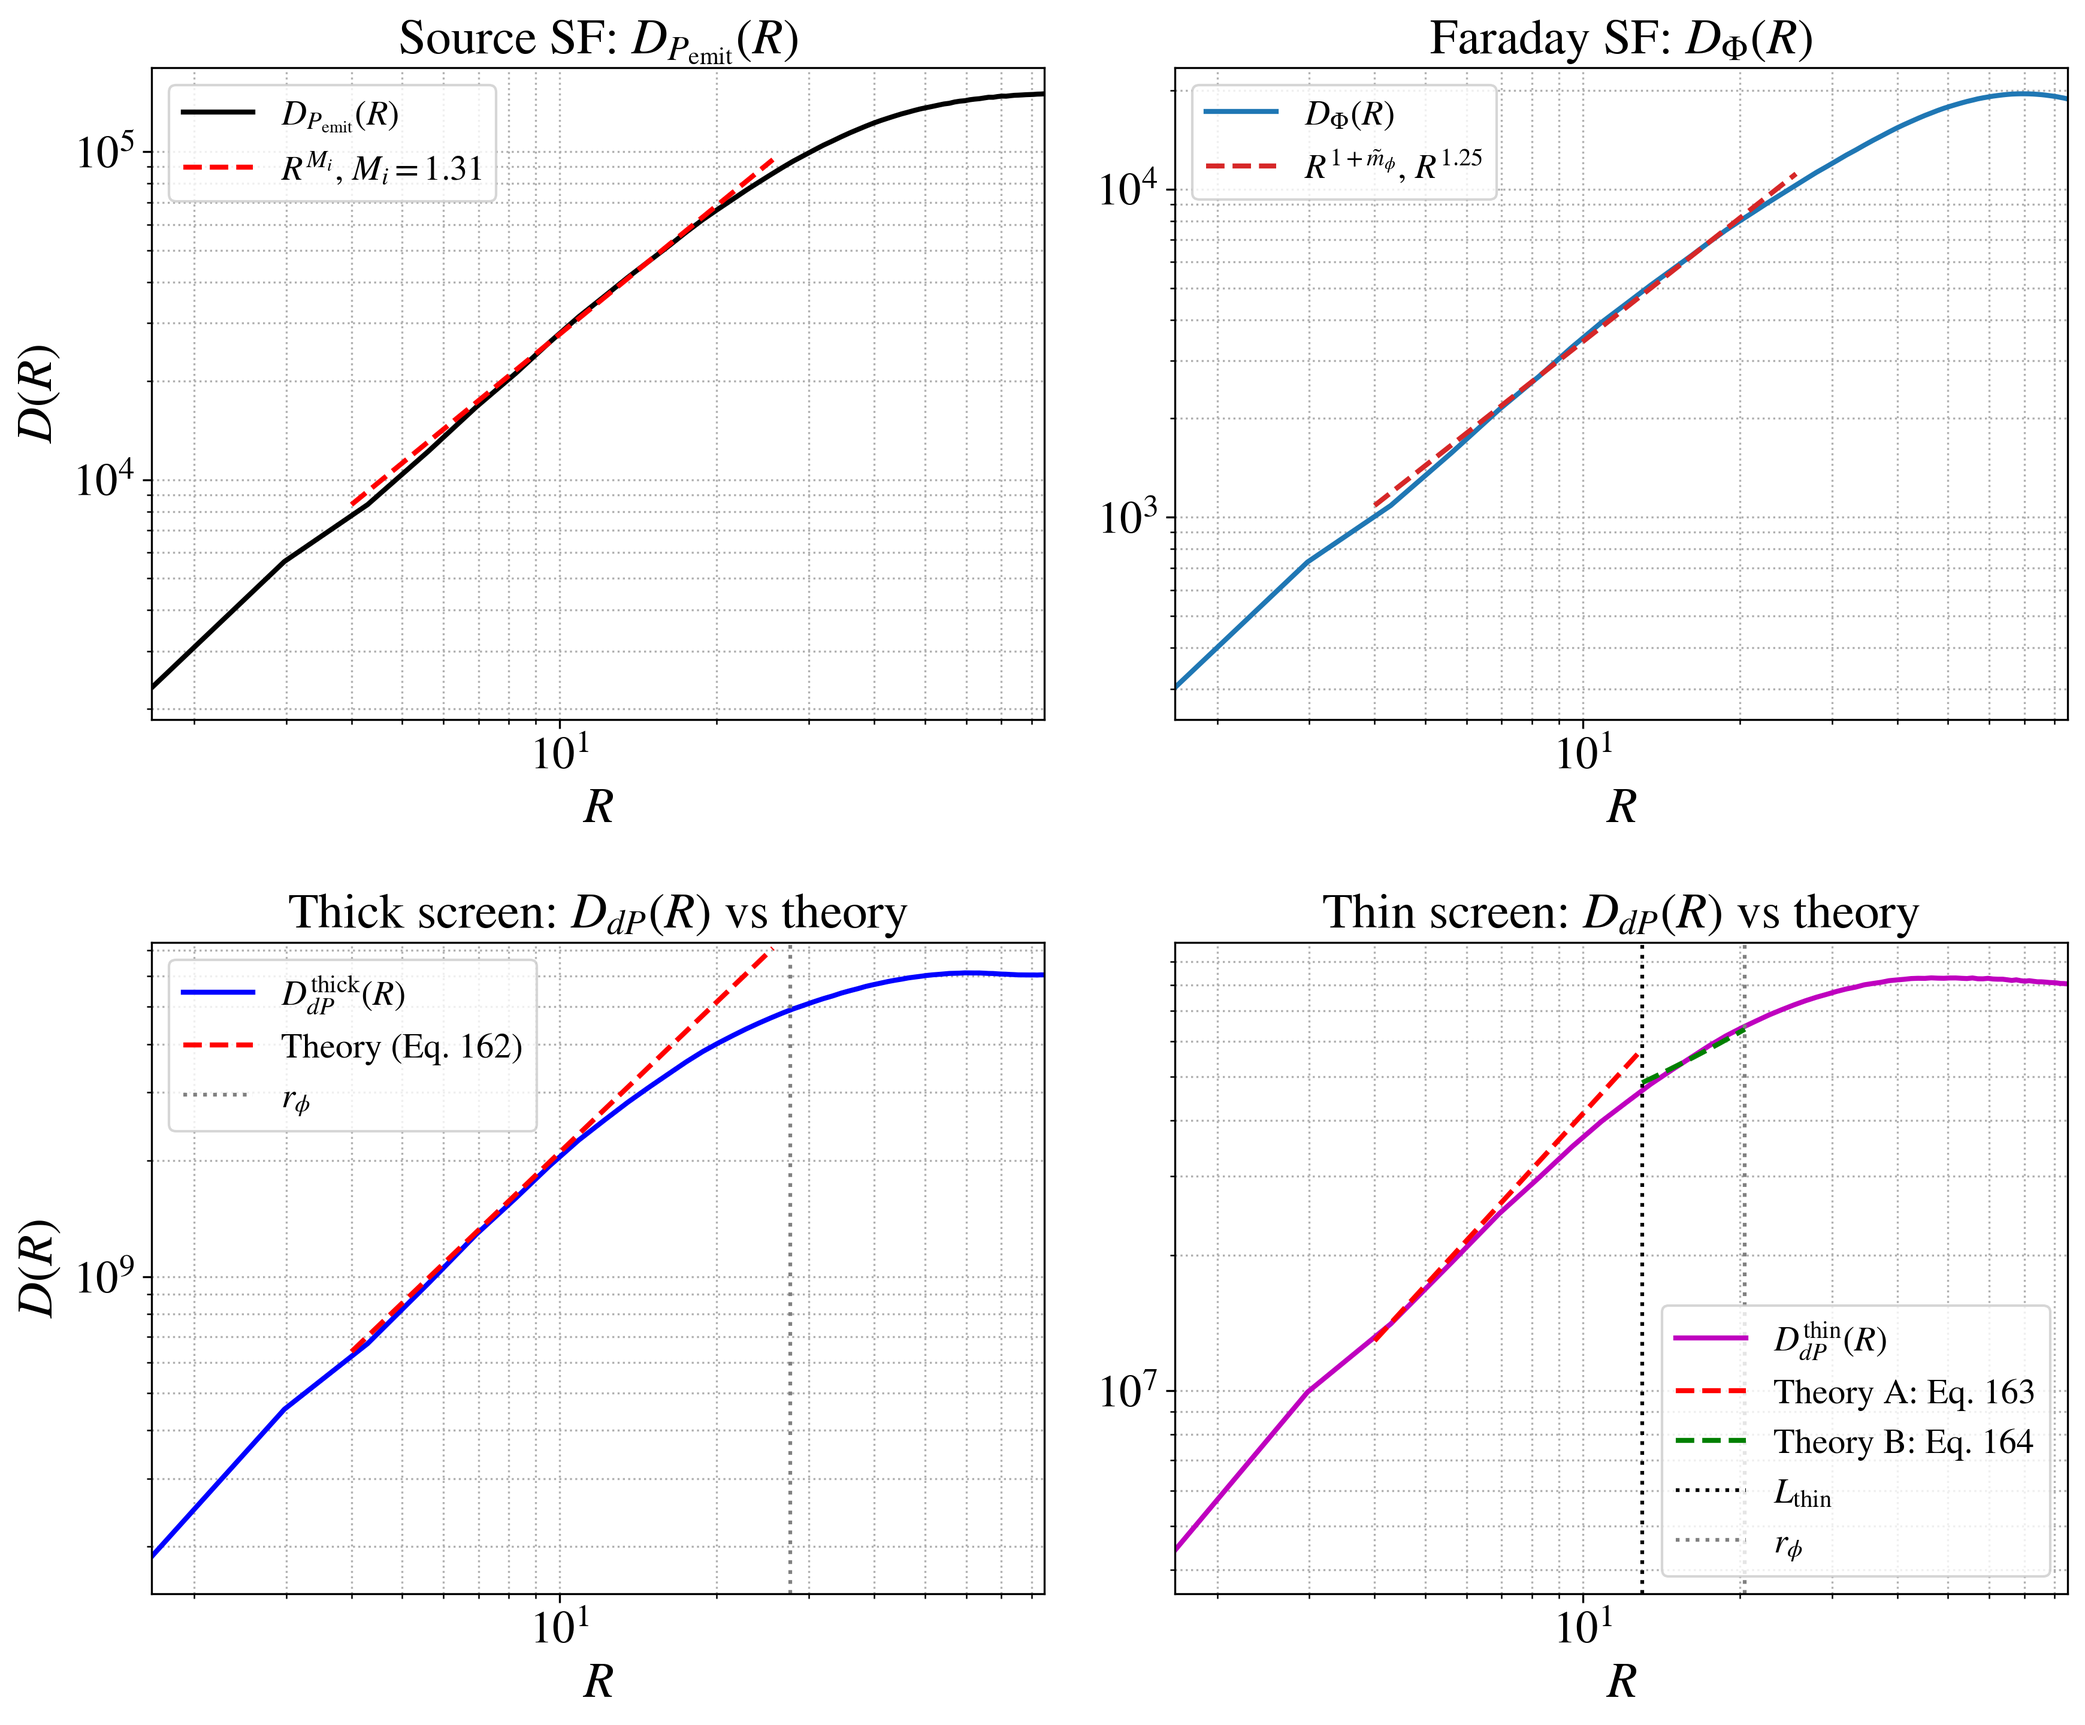
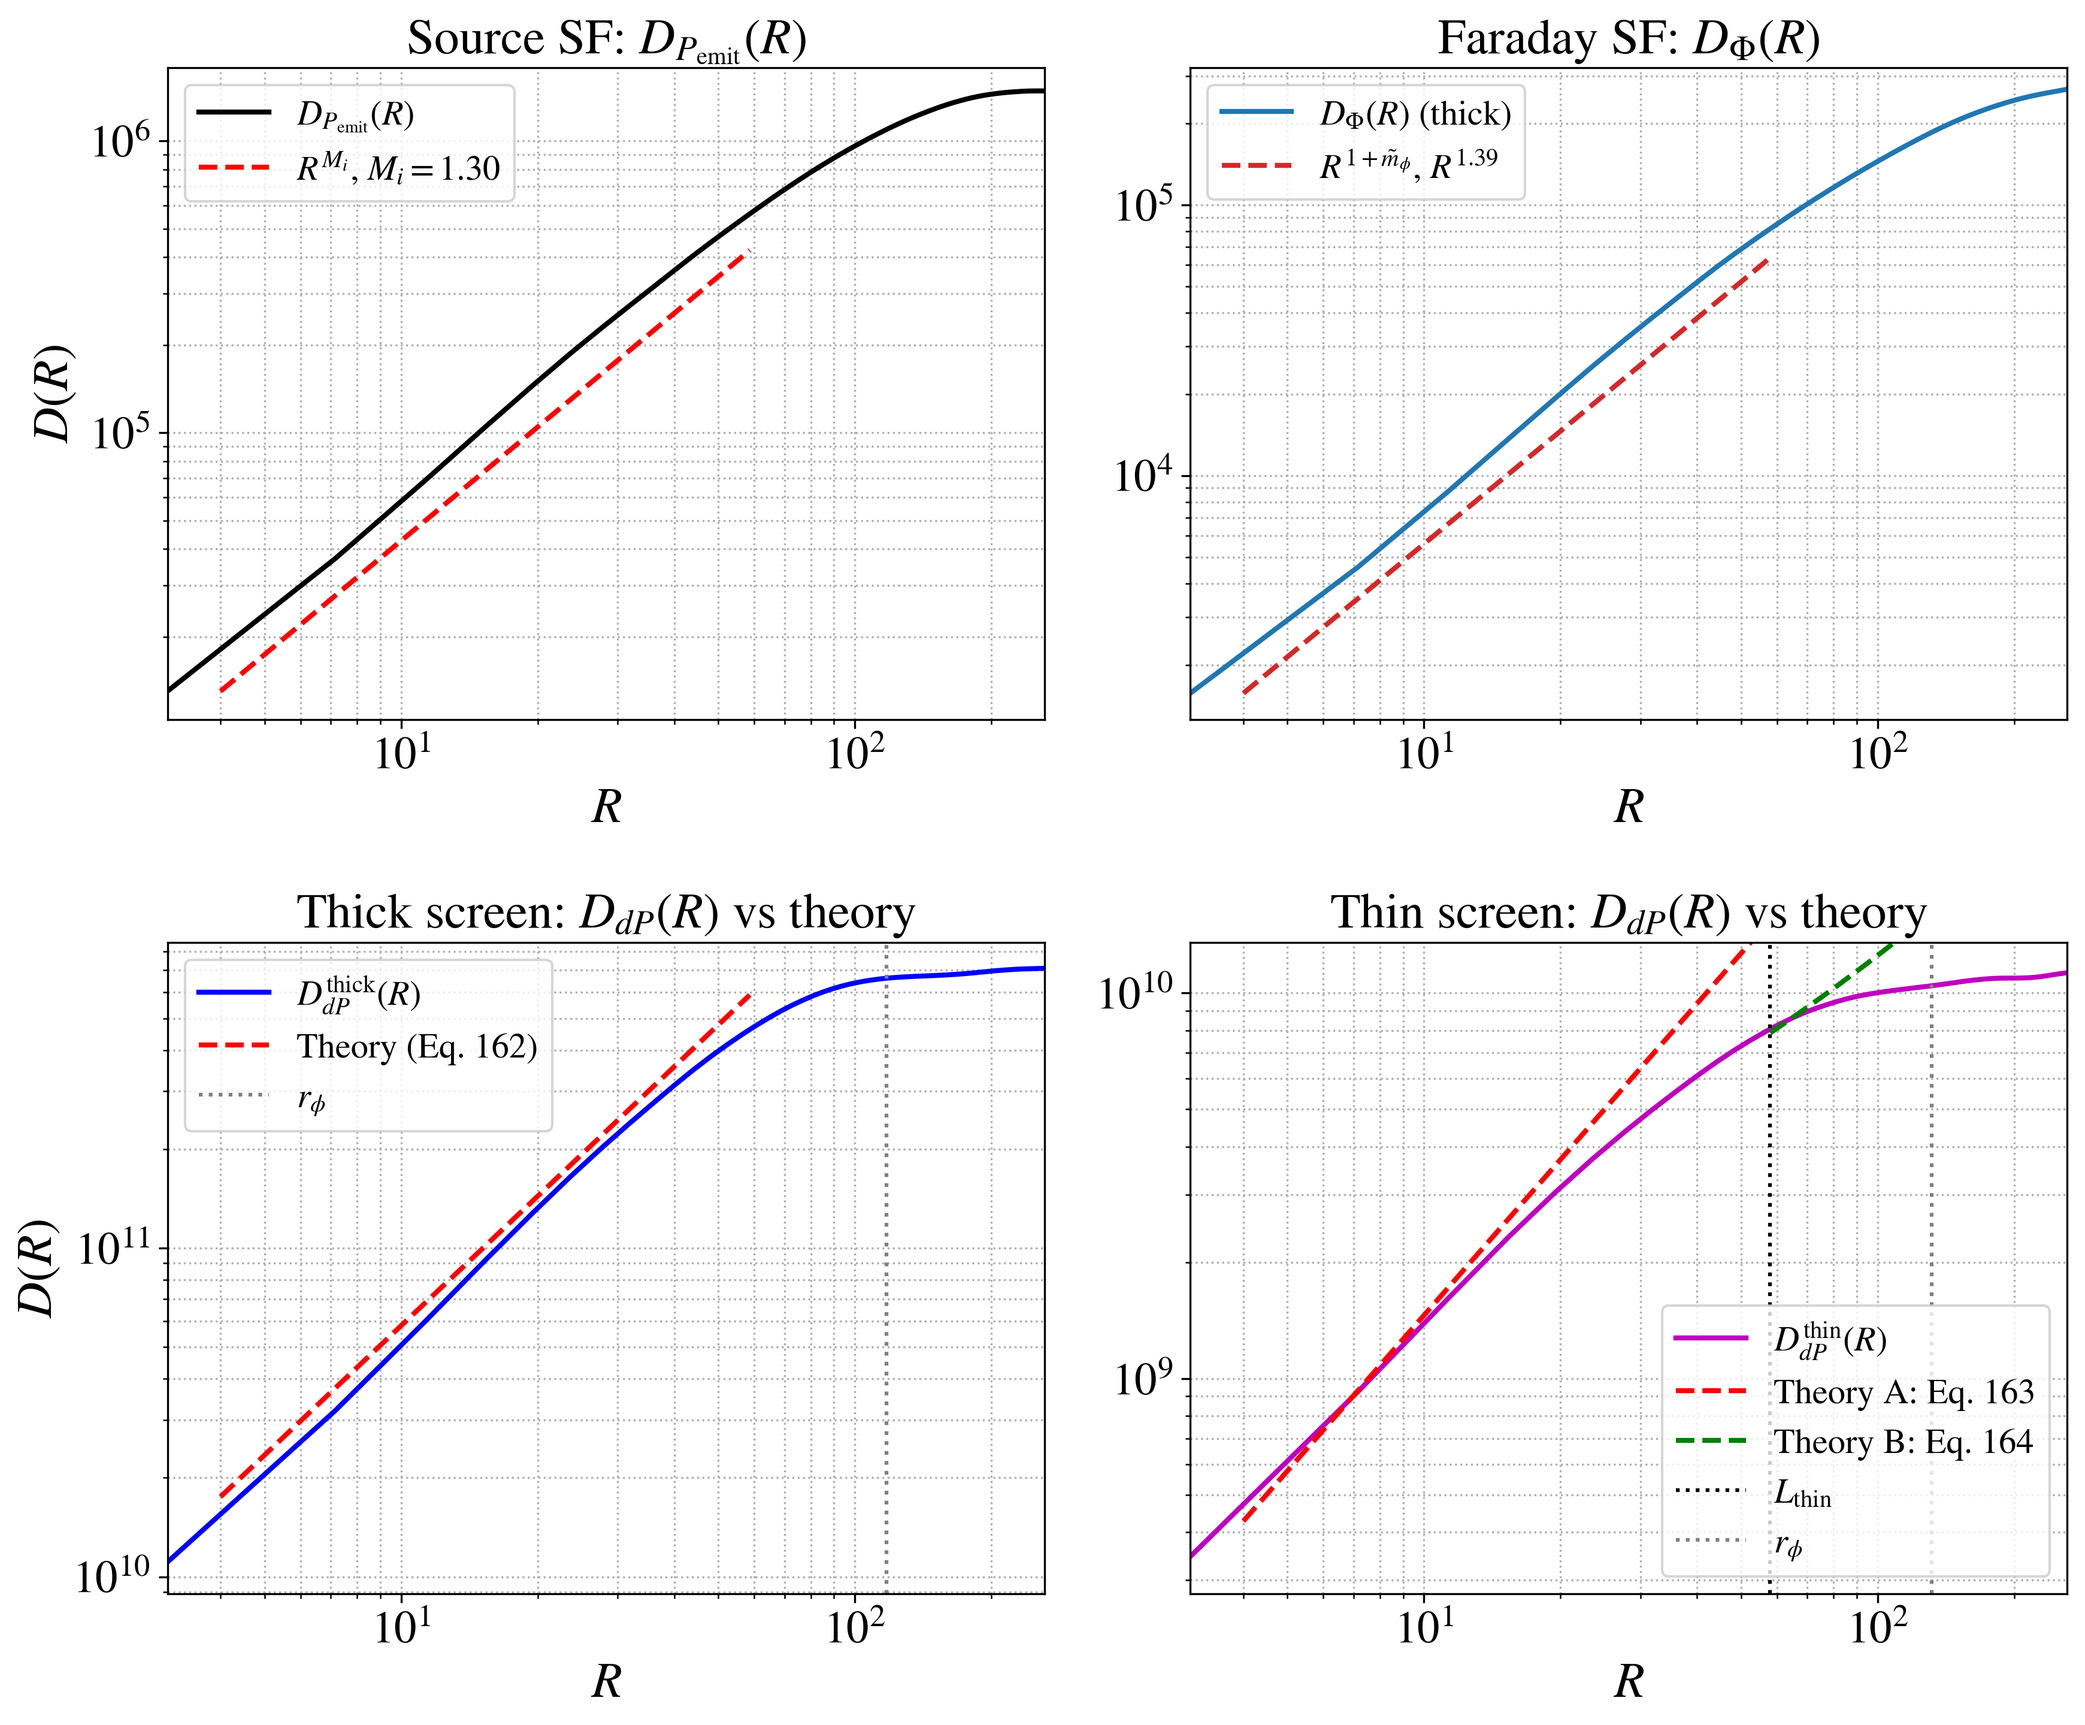
Completing for 792^3 synthetic cube

diff --git a/compare_measures/directional_spectrum/appendix_c/163_165.py b/compare_measures/directional_spectrum/appendix_c/163_165.py
@@ -427,8 +427,12 @@ def validate_lp16_appendixC(
     # ----------------------------------------------------------
     # Step 5: choose a common R-range and measure basic exponents
     # ----------------------------------------------------------
+    # For reliable measurement of tilde_m_phi, fit D_Phi(R) in the inertial range
+    # R < r_phi, away from grid scale (R_min ~ 4) and transition (R_max ~ 0.5*r_phi)
     Rmin_global = 4.0
-    Rmax_global = n / 5.0
+    Rmax_global = 0.5 * min(r_phi_thick, r_phi_thin)
+    print(f"\nFitting range for exponents: R ∈ [{Rmin_global:.1f}, {Rmax_global:.1f}] pixels")
+    print(f"  (ensures R < r_phi for both screens: {Rmax_global:.1f} < {r_phi_thin:.1f} and {r_phi_thick:.1f})")
 
     M_i = fit_powerlaw_slope(r_P,      D_P,      Rmin_global, Rmax_global)
     alpha_phi = fit_powerlaw_slope(r_Phi_th, D_Phi_th, Rmin_global, Rmax_global)
@@ -657,22 +661,39 @@ def validate_lp16_appendixC_theory_overlay(
     print("\nComputing structure functions...")
 
     r_P,   D_P   = structure_function_2d_complex(P_emit_thick, nbins=64, rmin=1.0, rmax=n/3)
-    r_Phi, D_Phi = structure_function_2d_complex(Phi_thick,    nbins=64, rmin=1.0, rmax=n/3)
+    r_Phi_thick, D_Phi_thick = structure_function_2d_complex(Phi_thick,    nbins=64, rmin=1.0, rmax=n/3)
+    r_Phi_thin,  D_Phi_thin  = structure_function_2d_complex(Phi_thin,     nbins=64, rmin=1.0, rmax=n/3)
     r_dP_th, D_dP_th = structure_function_2d_complex(dP_thick, nbins=64, rmin=1.0, rmax=n/3)
     r_dP_tn, D_dP_tn = structure_function_2d_complex(dP_thin,  nbins=64, rmin=1.0, rmax=n/3)
 
     # ---------- Step 5: extract M_i and tilde m_phi ----------
-    Rmin_global = 4.0#4.0
-    Rmax_global = n / 10.0#5
-
-    M_i       = fit_powerlaw_slope(r_P,   D_P,   Rmin_global, Rmax_global)
-    alpha_phi = fit_powerlaw_slope(r_Phi, D_Phi, Rmin_global, Rmax_global)
+    # For reliable measurement of tilde_m_phi, fit D_Phi(R) in the inertial range
+    # R < r_phi, away from grid scale (R_min ~ 4) and transition (R_max ~ 0.5*r_phi)
+    # Use separate fitting ranges for thin and thick screens for better accuracy
+    Rmin_global = 4.0
+    Rmax_thin_fit  = 0.5 * r_phi_thin   # ~29 for r_phi_thin ≈ 58
+    Rmax_thick_fit = 0.5 * r_phi_thick  # ~60 for r_phi_thick ≈ 120
+    
+    print(f"\nFitting ranges for exponents:")
+    print(f"  Thin  screen: R ∈ [{Rmin_global:.1f}, {Rmax_thin_fit:.1f}] pixels  (R < r_phi_thin = {r_phi_thin:.1f})")
+    print(f"  Thick screen: R ∈ [{Rmin_global:.1f}, {Rmax_thick_fit:.1f}] pixels  (R < r_phi_thick = {r_phi_thick:.1f})")
+    
+    M_i = fit_powerlaw_slope(r_P, D_P, Rmin_global, Rmax_thick_fit)
+    alpha_phi_thin  = fit_powerlaw_slope(r_Phi_thin,  D_Phi_thin,  Rmin_global, Rmax_thin_fit)
+    alpha_phi_thick = fit_powerlaw_slope(r_Phi_thick, D_Phi_thick, Rmin_global, Rmax_thick_fit)
+    
+    # Use thick screen measurement (larger fitting range) as primary, but report both
+    alpha_phi = alpha_phi_thick
     tilde_m_phi = alpha_phi - 1.0
+    tilde_m_phi_thin = alpha_phi_thin - 1.0
 
     print("\nBasic slopes from simulation:")
     print(f"  Source M_i          ≈ {M_i:.3f}")
-    print(f"  Faraday SF exponent ≈ {alpha_phi:.3f}  (D_Φ ∝ R^{alpha_phi:.3f})")
-    print(f"  ⇒ LP16 tilde m_phi  ≈ {tilde_m_phi:.3f}")
+    print(f"  Faraday SF exponent (thick): ≈ {alpha_phi_thick:.3f}  (D_Φ ∝ R^{alpha_phi_thick:.3f})")
+    print(f"  Faraday SF exponent (thin):  ≈ {alpha_phi_thin:.3f}  (D_Φ ∝ R^{alpha_phi_thin:.3f})")
+    print(f"  ⇒ LP16 tilde m_phi (thick):  ≈ {tilde_m_phi:.3f}")
+    print(f"  ⇒ LP16 tilde m_phi (thin):   ≈ {tilde_m_phi_thin:.3f}")
+    print(f"  Using thick screen value: tilde m_phi ≈ {tilde_m_phi:.3f}")
 
     # ---------- Helper: theory curves with 1-parameter normalization ----------
 
@@ -698,8 +719,8 @@ def validate_lp16_appendixC_theory_overlay(
 
     # ---------- Step 6: define R-ranges and normalize theory curves ----------
 
-    # Thick: R ∈ [Rmin_global, min(r_phi_thick, Rmax_global)]
-    Rmax_thick = min(r_phi_thick, Rmax_global)
+    # Thick: R ∈ [Rmin_global, min(r_phi_thick, Rmax_thick_fit)]
+    Rmax_thick = min(r_phi_thick, Rmax_thick_fit)
     R_th = np.linspace(Rmin_global, Rmax_thick, 200)
 
     # Choose pivot for normalization (geometric mean of range)
@@ -711,7 +732,7 @@ def validate_lp16_appendixC_theory_overlay(
     D_th_theory = K_th * theory_thick(R_th)
 
     # Thin Region A: R ∈ [Rmin_global, Rmax_thin_A]
-    Rmax_thin_A = min(L_thin, r_phi_thin, Rmax_global)
+    Rmax_thin_A = min(L_thin, r_phi_thin, Rmax_thin_fit)
     R_A = np.linspace(Rmin_global, Rmax_thin_A, 200)
 
     R0_A = np.sqrt(Rmin_global * Rmax_thin_A)
@@ -723,8 +744,8 @@ def validate_lp16_appendixC_theory_overlay(
 
     # Thin Region B: R ∈ [Rmin_thin_B, Rmax_thin_B]
     Rmin_thin_B = max(L_thin, Rmin_global)
-    Rmax_thin_B = min(r_phi_thin, Rmax_global)
-    R_B = np.linspace(Rmin_thin_B, Rmax_thin_B, 200)
+    Rmax_thin_B = min(r_phi_thin, Rmax_thin_fit)
+    R_B = np.linspace(Rmin_thin_B, r_phi_thin, 200)#np.linspace(Rmin_thin_B, Rmax_thin_B, 200)
 
     R0_B = np.sqrt(Rmin_thin_B * Rmax_thin_B)
     idx0_B = np.argmin(np.abs(r_dP_tn - R0_B))
@@ -746,10 +767,10 @@ def validate_lp16_appendixC_theory_overlay(
     # Panel 1: source SF with its measured slope
     ax = ax11
     ax.loglog(r_P, D_P, 'k-', lw=2, label=r'$D_{P_{\mathrm{emit}}}(R)$')
-    rline = np.linspace(Rmin_global, Rmax_global, 100)
+    rline_src = np.linspace(Rmin_global, Rmax_thick_fit, 100)
     D0_src = D_P[np.argmin(np.abs(r_P - Rmin_global))]
-    ax.loglog(rline,
-              D0_src * (rline / Rmin_global)**M_i,
+    ax.loglog(rline_src,
+              D0_src * (rline_src / Rmin_global)**M_i,
               'r--', lw=2,
               label=fr'$R^{{M_i}}$, $M_i={M_i:.2f}$')
     ax.set_xlim([r_P.min(), r_P.max()])
@@ -762,14 +783,15 @@ def validate_lp16_appendixC_theory_overlay(
 
     # Panel 2: Faraday SF with its measured exponent
     ax = ax12
-    ax.loglog(r_Phi, D_Phi, 'C0-', lw=2, label=r'$D_{\Phi}(R)$')
-    D0_phi = D_Phi[np.argmin(np.abs(r_Phi - Rmin_global))]
-    ax.loglog(rline,
-              D0_phi * (rline / Rmin_global)**alpha_phi,
+    ax.loglog(r_Phi_thick, D_Phi_thick, 'C0-', lw=2, label=r'$D_{\Phi}(R)$ (thick)')
+    rline_phi = np.linspace(Rmin_global, Rmax_thick_fit, 100)
+    D0_phi = D_Phi_thick[np.argmin(np.abs(r_Phi_thick - Rmin_global))]
+    ax.loglog(rline_phi,
+              D0_phi * (rline_phi / Rmin_global)**alpha_phi,
               'C3--', lw=2,
               label=fr'$R^{{1+\tilde m_\phi}}$, $R^{{{alpha_phi:.2f}}}$')
-    ax.set_xlim([r_Phi.min(), r_Phi.max()])
-    ax.set_ylim([D_Phi.min() * 0.8, D_Phi.max() * 1.2])
+    ax.set_xlim([r_Phi_thick.min(), r_Phi_thick.max()])
+    ax.set_ylim([D_Phi_thick.min() * 0.8, D_Phi_thick.max() * 1.2])
     ax.set_xlabel(r'$R$')
     ax.set_title('Faraday SF: $D_{\Phi}(R)$')
     ax.legend(fontsize=14)
@@ -930,7 +952,7 @@ if __name__ == "__main__":
     # )
     
     validate_lp16_appendixC_theory_overlay(
-        n=512,
+        n=792,
         beta_B_emit=11.0/3.0,
         beta_ne_emit=11.0/3.0,
         beta_B_far=11.0/3.0,
